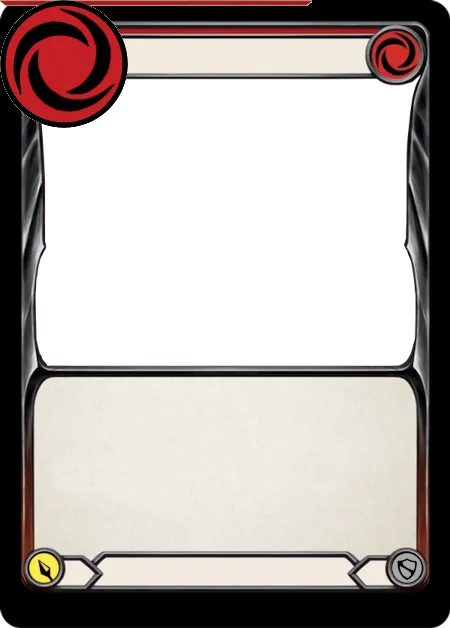
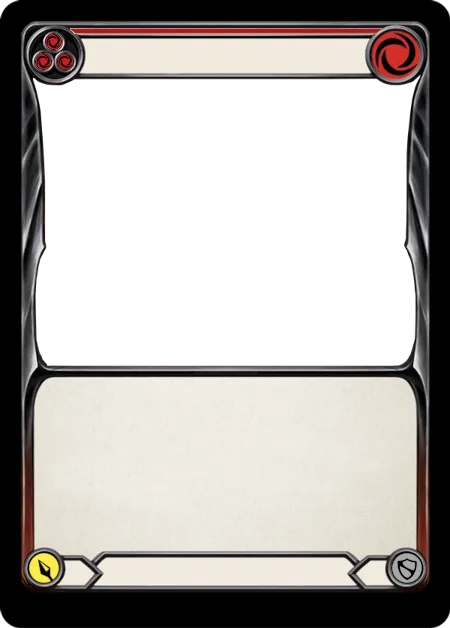
img_new [modify]: fix the distance fixed

Changed region(s): [[0.0, 0.0, 0.84, 0.2118]]

diff --git a/src/transformers/img_new.py b/src/transformers/img_new.py
@@ -14,5 +14,7 @@ class NewImageTransform(ImageTransform):
         self._defend_position = (343, 575)
         self._power_position = (65, 575)
         self._cost_position = (0, 0)
-        self._pitch_position = [(0, 0)]
-        self._color_bar_position = (0, 0)
+        self._blue_pitch_position = (57, 53)
+        self._yellow_pitch_position = (35, 53)
+        self._red_pitch_position = (45, 33)
+        self._color_bar_position = (70, 28)
